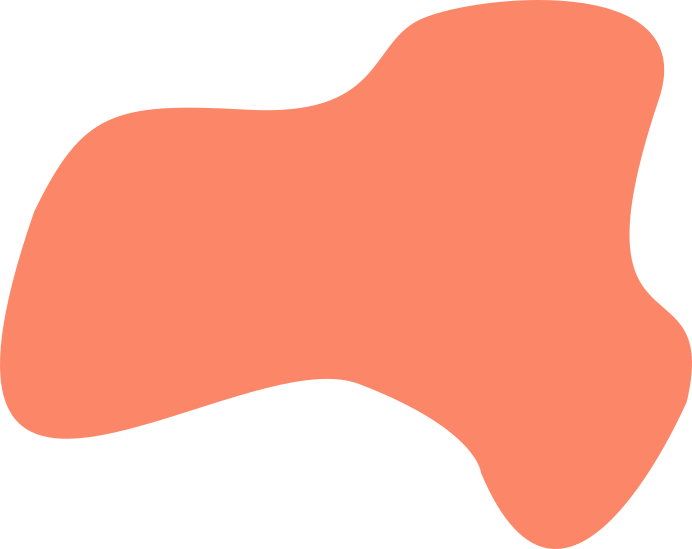
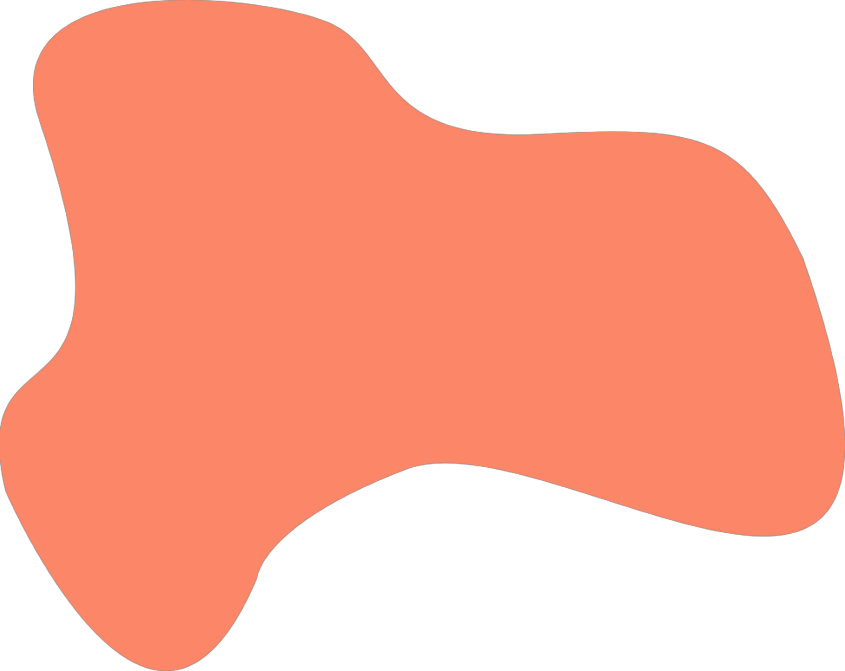
just need about and background!

Changed region(s): [[0.0, 0.0, 1.0, 0.6193], [0.0, 0.6812, 0.9711, 1.0], [0.9711, 0.7432, 1.0, 0.7741]]

diff --git a/client/src/components/Calculator.css b/client/src/components/Calculator.css
@@ -4,11 +4,16 @@
 	flex-wrap: wrap;
 	justify-content: center;
 	align-items: flex-end;
+    position: relative;
+    top:250px;
+    left:400px;
+    width: 500px
 }
 
 .wrapper {
-    min-height:100vh; 
+    min-height: 130vh; 
     background-image: url('../../public/images/blob-4847x973.png');
+    background-size: 50vw;
     background-repeat: no-repeat;
     background-position: fixed;
     overflow-x: visible;
@@ -79,6 +84,12 @@ option, select {
     z-index: 40;
 }
 
+input:focus, select:focus {
+    border-radius: 5em;
+    border-width: 0.3em;
+    border-color: #f5e752;
+}
+
 button {
   width:20vw;
   height: 20vh;
@@ -91,12 +102,23 @@ button {
   text-align:center;
   /* font-family: 'Press Start 2P', cursive, white; */
   font-family: 'Bungee Shade';
-  font-size: 90%;
+  /* font-family: 'Pirata One', cursive; */
   font-size: 400%;
   border: none;
-  margin-right: 1vw;
-  margin-top: 60vh;
-  position: absolute;
+  right:20px;
+  bottom:-10px;
+  position: relative;
+  z-index: 51;
+}
+
+button:focus {
+    outline: none;
+    font-style: bold;
+}
+
+button:active {
+    outline: none;
+    font-style: bold;
 }
 
 button:hover {
@@ -123,8 +145,8 @@ button:hover {
     transition: all ease-in-out .3s;
     background-color:white;
     z-index: 50;
-    margin-right: 27vw;
-    margin-top: -5.5vh;
+    right: 580px;
+    bottom: 330px;
     font-family: 'Pirata One', cursive;
 }
 
@@ -149,6 +171,7 @@ button:hover {
     background-repeat: no-repeat;
     background-position: center;
     box-sizing: 5vw;
+    z-index: 52;
 
     outline:none;
 }
@@ -176,15 +199,15 @@ button:hover {
     clip-path: circle(2% at 98% 9%);
     transition: all ease-in-out .3s;
     background-color:white;
-    z-index: 50;
-    margin-right: 27vw;
-    margin-top: -5.5vh;
+    z-index: 51;
+    margin-right: 27.1vw;
+    margin-top: -57.5vh;
     font-family: 'Pirata One', cursive;
 }
 
 .percent-card-infoicon{
     position:absolute;
-    
+    z-index:48;
     top:15px;
     right:15px;
     
@@ -193,18 +216,31 @@ button:hover {
     transition:ease-out .3s;
 }
 
+/* .percent-card-infoicon:focus{
+    opacity: 0;
+}
+
+.percent-card-infoicon:hover{
+    opacity: 0;
+} */
 
 .percent-card:hover, .percent-card:focus{
     clip-path: circle(75%);
     border-radius:20px;
     box-shadow: 0px 3px 9px rgba(0,0,0,0.12),
                 0px 3px 18px rgba(0,0,0,0.08);
-    background-image: url('../../public/images/Fitzpatrick-Scale-1024x311.jpg');
+    background-image: url('../../public/images/Fitzpatrick-Scale-1024x311\ -\ Copy.jpg');
     background-repeat: no-repeat;
     background-position: center;
     box-sizing: 5vw;
-
     outline:none;
+    z-index: 49;
+}
+
+.percent-card-description {
+    font-family: 'Press Start 2P', cursive;
+    font-size: 1.8vw;
+    color:#f76cf7;
 }
 
 .percent-card:focus{

diff --git a/client/src/components/Solution.css b/client/src/components/Solution.css
@@ -1,33 +1,94 @@
-.result-digit {
-    font-family: 'Press Start 2P', cursive;
-    font-size: 1em;
+/* Splat In */
+.animate {
+    animation-duration: 0.5s;
+    /* animation-duration: 1s;  */
+    /* animation-delay: 0.5s; */
+    animation-name: animate-fade;
+    animation-timing-function: cubic-bezier(.26,.53,.74,1.48);
+    animation-fill-mode: backwards;
+  }
+
+.animate.splat {
+    animation-name: animate-splat;
+    }
+
+    @keyframes animate-splat {
+        0% {
+        opacity: 0;
+        transform: scale(0, 0) rotate(0deg) translate(0, -30px);
+        }
+        70% {
+            opacity: 1;
+            transform: scale(1.1, 1.1) rotate(0deg);
+        }
+        
+        85% {
+            opacity: 1;
+            transform: scale(1.1, 1.1) rotate(0deg) translate(0, -10px) ease;
+        }
+        
+        100% {
+            opacity: 1;
+            transform: scale(1, 1) rotate(0) translate(0, 0);
+        }
+    }
+
+
+@media screen and (prefers-reduced-motion: reduce) {
+    .animate {
+        animation: none !important;
+    }
 }
 
-.result-message {
+
+
+
+
+
+.solution-popup {
+    font-family: 'IBM Plex Sans', sans-serif;
+    color: #f5e752;
+    /* color: #11bcd3; */
+    background-image: url('../../public/images/blob-2.png');
+    background-size: 900px;
+    background-repeat: no-repeat;
+    position: relative;
+    height: 1000px;
+    top: -340px;
+    left: 230px; 
+    display: flex;
+}
+
+.digit {
+    font-family: 'Bungee Shade';
+    padding-left: 170px;
+    padding-top: 50px;
+    font-size: 80px;
+}
+
+.digit-2 {
+    /* position: relative; */
+    font-family: 'Bungee Shade';
+    right: 400px;
+    padding-top: 210px;
+    font-size: 80px; 
+    position: relative;
+}
+
+.msg {
+    padding-left: 20px;
+    padding-top:160px;
+    font-size: xx-large;
+
+}
+
+.msg-2 {
+    right: 380px;
+    padding-top: 320px;
+    font-size: xx-large;
+    position: relative;
+}
+/* .result-message {
     font-family: 'Playfair Display', serif; 
-}
-
-
-/* App.css code
-
-* {
-    color:#f5e752;
-    text-decoration: none;
-}
-
-.input {
-    width: 100%;
-    margin: 0 0 75px;
-}
-
-#background-video {
-  width: 100vw;
-  height: 100vh;
-  object-fit: cover;
-  position: fixed;
-  left: 0;
-  right: 0;
-  top: 0;
-  bottom: 0;
-  z-index: -1;
 } */
+

diff --git a/client/src/components/Calculator.jsx b/client/src/components/Calculator.jsx
@@ -97,21 +97,21 @@ const Calculator = () => {
           </select>
           <input type="text" placeholder='fitzpatrick skin tone' onChange={(e) => setSkinTone(e.target.value)}>
           </input>
-            <div className="skin-card" tabindex="0">
+          <input className='skin-exposure' type="text" placeholder='skin exposure' onChange={(e) => setskinExposure(e.target.value)}>
+          </input>
+          <button type='submit'>GO</button>
+          <div className="skin-card" tabindex="0">
               <span className="skin-card-infoicon">?
               </span>
               <p className="skin-card-description"></p>
-            </div>
-          <input className='skin-exposure' type="text" placeholder='skin exposure' onChange={(e) => setskinExposure(e.target.value)}>
-          </input>
-            <div className="percent-card" tabindex="0">
-                <span className="percent-card-infoicon">?
-                  <i className="percent-info"></i>
-                </span>
-                <p className="percent-card-description"></p>
-              </div>
+          </div>
+          <div className="percent-card" tabindex="0">
+            <span className="percent-card-infoicon">?
+              <i className="percent-info"></i>
+            </span>
+            <p className="percent-card-description">&nbsp;10% &nbsp;30%&nbsp;&nbsp; 50%&nbsp; 80%&nbsp;&nbsp;100%</p>
+          </div>
           {/* <button type='submit'>How many minutes do I need to stand outside?</button> */}
-          <button type='submit'>GO</button>
         </form>
       <div className='loading-blob'><Loading loading={loading} /></div>
       <div className='solution'><Solution results={results} sunburn={sunburn}/></div>

diff --git a/client/src/components/Solution.jsx b/client/src/components/Solution.jsx
@@ -9,16 +9,16 @@ const Solution = (props) => {
 //   console.log(sunburn)
 
   return (
-    <>
+    <div className='solution-blob'>
         {(results && sunburn) ? 
-            (<div className='solution'>
-                <div className='result-digit'>{results}</div> 
-                <div className='result-message'>MINUTES TO TOP OFF VITAMIN D</div>
-                <div className='result-digit'>{sunburn}</div> 
-                <div className='result-message'> MINUTES UNTIL SUNBURN</div>
+            (<div className='solution-popup animate splat'>
+                <p className='digit'>{results}</p> 
+                <p className='msg'>MINUTES TO TOP<br/>OFF VITAMIN D</p>
+                <p className='digit-2'>{sunburn}</p> 
+                <p className='msg-2'>MINUTES<br/>UNTIL SUNBURN</p> 
             </div>) : 
         (null)}
-    </>
+    </div>
   )
 }
 

diff --git a/client/src/components/Loading.css b/client/src/components/Loading.css
@@ -3,13 +3,18 @@
 }
 
 .blob {
-  max-height:90vh;
-  width:90vw;
-  z-index: 8;
-  /* transform: translate(30vw, 50vh) */
+  /* max-height:150vh; */
+  /* width:150vw; */
+  /* transform: translate(-100vw 800vh) */
+  z-index: 100;
+  position: relative;
+  max-width: 1300px;
+  bottom: 800px;
+
 }
 .blob path {
  animation: blob 7s linear  infinite;
+ transition: ease-in-out;
 }
 @keyframes blob {
   0% {    d:path("M120,-157.6C152.7,-141.5,174.3,-102.6,194.8,-58.8C215.3,-14.9,234.6,33.8,228.4,80.8C222.2,127.8,190.4,173.1,148.1,184C105.8,195,52.9,171.5,-2.4,174.8C-57.8,178.2,-115.6,208.4,-137.5,190.9C-159.3,173.3,-145.3,108,-153,56.3C-160.7,4.6,-190.2,-33.4,-178.3,-54.2C-166.4,-75.1,-113.2,-78.8,-76.6,-93.6C-40,-108.3,-20,-134.2,11.9,-150.5C43.7,-166.8,87.4,-173.6,120,-157.6Z");

diff --git a/client/src/components/Home.css b/client/src/components/Home.css
@@ -43,6 +43,12 @@
 .about-link, .return-home-link, .calculator-link {
     text-decoration: none;
     color: #f5e752;
+    width:500px
+}
+
+.about-link:hover, .return-home-link:hover, .calculator-link:hover {
+    transform:translateX(40px); 
+    transition: all ease 500ms;
 }
 
 .about-link:visited, .return-home-link:visited, .calculator-link:visited {
@@ -53,6 +59,7 @@
 .about-link:link, .return-home-link:link, .calculator-link:link {
     text-decoration: none;
     color: #f5e752;
+    
 }
 
 

diff --git a/client/src/components/Header.css b/client/src/components/Header.css
@@ -4,9 +4,8 @@
     flex-direction: row;
     align-content: space-between;
     align-items: center;
-    flex-wrap: nowrap;
+    flex-wrap: wrap;
     font-size: 3vw;
-    margin-top: 4vh;
 }
 
 .header-nav {
@@ -19,7 +18,12 @@
     padding-inline: 8vw;
     width: 80vw;
     flex-direction: column;
+    position: fixed;
+    margin-top: 20vh;
+    z-index: 100;
 }
+
+
 
 
 

diff --git a/client/src/components/ReturnHome.css b/client/src/components/ReturnHome.css
@@ -33,6 +33,7 @@
     padding-inline: 8vw;
     width: 80vw;
     flex-direction: column;
+    overflow-x: hidden;
 }
 
 
